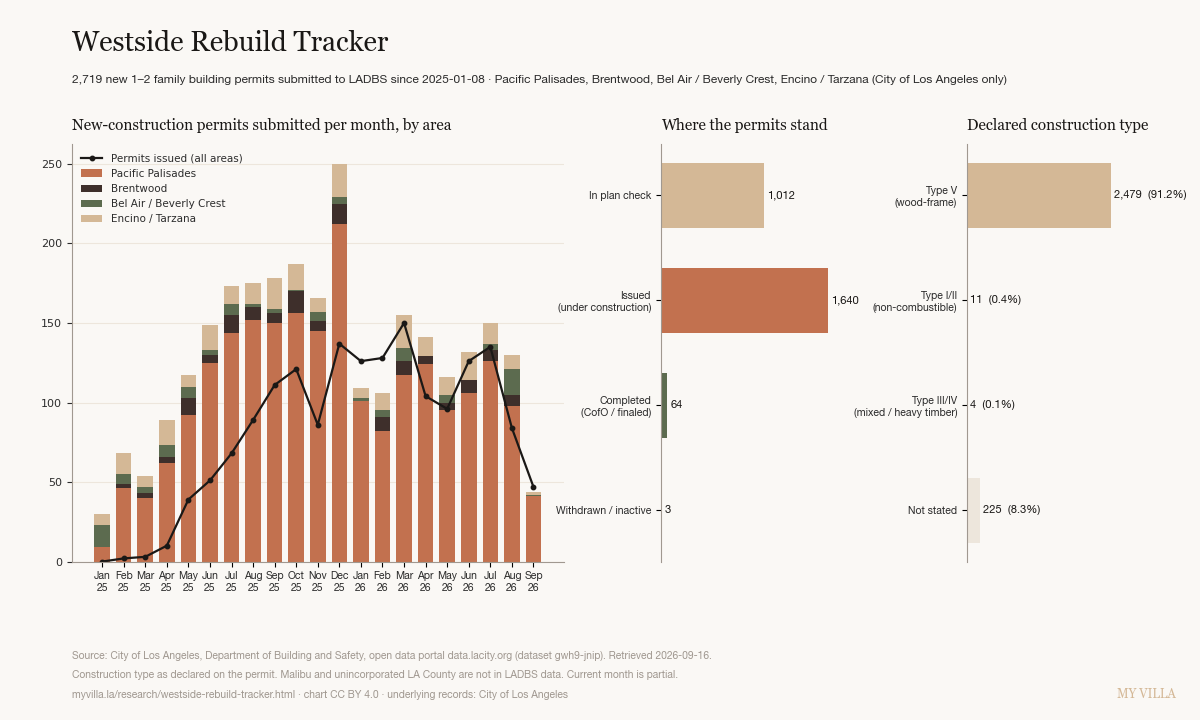
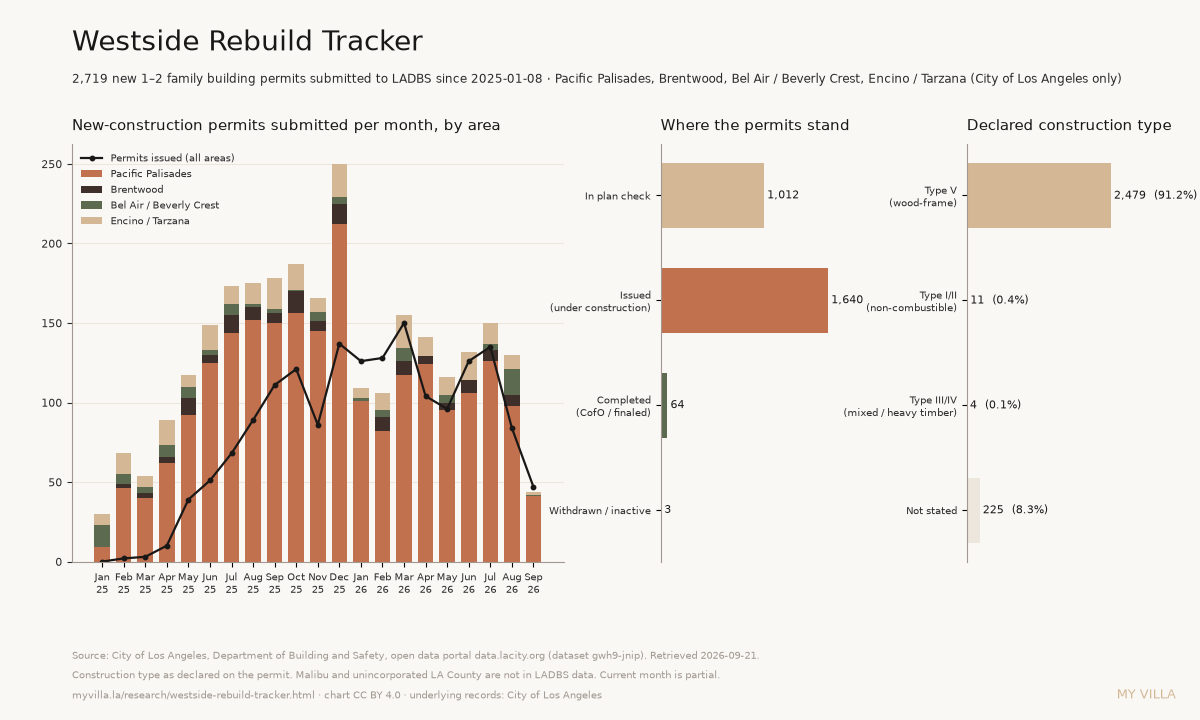
Rebuild tracker weekly refresh 2026-09-21 [skip ci]

diff --git a/research/westside-rebuild-tracker.html b/research/westside-rebuild-tracker.html
@@ -24,7 +24,7 @@
 
 <!-- Primary SEO -->
 <title>Westside Rebuild Tracker — LADBS Permits after the January 2025 Fires | My Villa Research</title>
-<meta name="description" content="Weekly tracker of 2,719 new-home building permits filed with LADBS in Pacific Palisades, Brentwood, Bel Air/Beverly Crest and Encino/Tarzana since the January 2025 fires: status, month, area and declared construction type (wood-frame vs non-combustible). Open data, CSV/JSON download. Updated 2026-09-16.">
+<meta name="description" content="Weekly tracker of 2,719 new-home building permits filed with LADBS in Pacific Palisades, Brentwood, Bel Air/Beverly Crest and Encino/Tarzana since the January 2025 fires: status, month, area and declared construction type (wood-frame vs non-combustible). Open data, CSV/JSON download. Updated 2026-09-21.">
 <meta name="keywords" content="Pacific Palisades rebuild tracker, Palisades rebuild permits, LADBS building permits 2025, wildfire rebuild Los Angeles data, Brentwood new construction permits, Bel Air building permits, Encino Tarzana hillside permits, Type V wood frame vs non-combustible, rebuild progress Pacific Palisades 2026">
 <meta name="author" content="My Villa Research">
 <meta name="robots" content="index, follow, max-image-preview:large">
@@ -34,7 +34,7 @@
 <meta property="og:type" content="article">
 <meta property="og:url" content="https://myvilla.la/research/westside-rebuild-tracker.html">
 <meta property="og:title" content="Westside Rebuild Tracker — LADBS permits since January 2025">
-<meta property="og:description" content="Weekly tracker of 2,719 new-home building permits filed with LADBS in Pacific Palisades, Brentwood, Bel Air/Beverly Crest and Encino/Tarzana since the January 2025 fires: status, month, area and declared construction type (wood-frame vs non-combustible). Open data, CSV/JSON download. Updated 2026-09-16.">
+<meta property="og:description" content="Weekly tracker of 2,719 new-home building permits filed with LADBS in Pacific Palisades, Brentwood, Bel Air/Beverly Crest and Encino/Tarzana since the January 2025 fires: status, month, area and declared construction type (wood-frame vs non-combustible). Open data, CSV/JSON download. Updated 2026-09-21.">
 <meta property="og:image" content="https://myvilla.la/research/img/westside-rebuild-tracker.png">
 <meta property="og:site_name" content="My Villa">
 <meta property="og:locale" content="en_US">
@@ -42,7 +42,7 @@
 <!-- Twitter Card -->
 <meta name="twitter:card" content="summary_large_image">
 <meta name="twitter:title" content="Westside Rebuild Tracker — LADBS permits since January 2025">
-<meta name="twitter:description" content="Weekly tracker of 2,719 new-home building permits filed with LADBS in Pacific Palisades, Brentwood, Bel Air/Beverly Crest and Encino/Tarzana since the January 2025 fires: status, month, area and declared construction type (wood-frame vs non-combustible). Open data, CSV/JSON download. Updated 2026-09-16.">
+<meta name="twitter:description" content="Weekly tracker of 2,719 new-home building permits filed with LADBS in Pacific Palisades, Brentwood, Bel Air/Beverly Crest and Encino/Tarzana since the January 2025 fires: status, month, area and declared construction type (wood-frame vs non-combustible). Open data, CSV/JSON download. Updated 2026-09-21.">
 <meta name="twitter:image" content="https://myvilla.la/research/img/westside-rebuild-tracker.png">
 
 <!-- Geo -->
@@ -69,7 +69,7 @@
       "@type": "Dataset",
       "@id": "https://myvilla.la/research/westside-rebuild-tracker.html#dataset",
       "name": "Westside Rebuild Tracker — LADBS new-construction permits since January 2025",
-      "description": "Weekly tracker of 2,719 new-home building permits filed with LADBS in Pacific Palisades, Brentwood, Bel Air/Beverly Crest and Encino/Tarzana since the January 2025 fires: status, month, area and declared construction type (wood-frame vs non-combustible). Open data, CSV/JSON download. Updated 2026-09-16.",
+      "description": "Weekly tracker of 2,719 new-home building permits filed with LADBS in Pacific Palisades, Brentwood, Bel Air/Beverly Crest and Encino/Tarzana since the January 2025 fires: status, month, area and declared construction type (wood-frame vs non-combustible). Open data, CSV/JSON download. Updated 2026-09-21.",
       "url": "https://myvilla.la/research/westside-rebuild-tracker.html",
       "keywords": [
         "Pacific Palisades rebuild",
@@ -105,12 +105,12 @@
           "name": "City of Los Angeles, Department of Building and Safety"
         }
       },
-      "temporalCoverage": "2025-01-08/2026-09-16",
+      "temporalCoverage": "2025-01-08/2026-09-21",
       "spatialCoverage": {
         "@type": "Place",
         "name": "Westside Los Angeles (Pacific Palisades, Brentwood, Bel Air / Beverly Crest, Encino / Tarzana), City of Los Angeles, California"
       },
-      "dateModified": "2026-09-16",
+      "dateModified": "2026-09-21",
       "variableMeasured": [
         "permits submitted per month",
         "permit status",
@@ -246,7 +246,7 @@ td.num, th.num { text-align: right; font-variant-numeric: tabular-nums; white-sp
   <div class="pillar-eyebrow">My Villa Research · Open Data</div>
   <h1 class="pillar-title">Westside Rebuild Tracker: <em>LADBS permits</em> since the January 2025 fires</h1>
   <p class="pillar-lede">Every new-home building permit filed with the Los Angeles Department of Building and Safety in Pacific Palisades, Brentwood, Bel Air / Beverly Crest and Encino / Tarzana since 2025-01-08, by month, status and declared construction type. Rebuilt every Monday from the City's open data.</p>
-  <div class="updated">Data retrieved 2026-09-16 · next refresh Monday 05:30 UTC</div>
+  <div class="updated">Data retrieved 2026-09-21 · next refresh Monday 05:30 UTC</div>
 </section>
 
 <div class="stat-strip">
@@ -261,7 +261,7 @@ td.num, th.num { text-align: right; font-variant-numeric: tabular-nums; white-sp
   <p class="container-lede">20 months after the Palisades Fire, the rebuild is visible one permit at a time. This page counts them, and shows what the permits themselves say about how the Westside is being rebuilt.</p>
 
   <div class="chart">
-    <img src="img/westside-rebuild-tracker.png" alt="Chart: new-construction permits submitted per month by area, permit status pipeline, and declared construction type — LADBS open data, retrieved 2026-09-16" width="1200" height="720" loading="eager">
+    <img src="img/westside-rebuild-tracker.png" alt="Chart: new-construction permits submitted per month by area, permit status pipeline, and declared construction type — LADBS open data, retrieved 2026-09-21" width="1200" height="720" loading="eager">
   </div>
 
   <h2>What the permits say</h2>
@@ -297,7 +297,7 @@ td.num, th.num { text-align: right; font-variant-numeric: tabular-nums; white-sp
   <p>Each weekly refresh adds a row, so the pipeline can be read over time.</p>
   <div class="table-wrap"><table>
     <thead><tr><th>Snapshot</th><th class="num">Permits</th><th class="num">In plan check</th><th class="num">Issued</th><th class="num">Completed</th><th class="num">Non-combustible</th></tr></thead>
-    <tbody><tr><td>2026-09-16</td><td class='num'>2,719</td><td class='num'>1,012</td><td class='num'>1,640</td><td class='num'>64</td><td class='num'>11</td></tr></tbody></table></div>
+    <tbody><tr><td>2026-09-16</td><td class='num'>2,719</td><td class='num'>1,012</td><td class='num'>1,640</td><td class='num'>64</td><td class='num'>11</td></tr><tr><td>2026-09-21</td><td class='num'>2,719</td><td class='num'>1,012</td><td class='num'>1,640</td><td class='num'>64</td><td class='num'>11</td></tr></tbody></table></div>
 
   <h2>Method</h2>
   <ul>
@@ -326,10 +326,10 @@ td.num, th.num { text-align: right; font-variant-numeric: tabular-nums; white-sp
   </div>
   <div class="cite-box">
     <h4>Cite (APA)</h4>
-    <p>My Villa. (2026). <em>Westside Rebuild Tracker: LADBS new-construction permits after the January 2025 fires</em> [Data set, retrieved 2026-09-16]. Los Angeles Open Data, City of Los Angeles Department of Building and Safety. https://myvilla.la/research/westside-rebuild-tracker.html</p>
+    <p>My Villa. (2026). <em>Westside Rebuild Tracker: LADBS new-construction permits after the January 2025 fires</em> [Data set, retrieved 2026-09-21]. Los Angeles Open Data, City of Los Angeles Department of Building and Safety. https://myvilla.la/research/westside-rebuild-tracker.html</p>
     <h4>Embed the chart</h4>
     <pre>&lt;a href=&quot;https://myvilla.la/research/westside-rebuild-tracker.html&quot;&gt;&lt;img src=&quot;https://myvilla.la/research/img/westside-rebuild-tracker.png&quot; alt=&quot;Westside Rebuild Tracker — LADBS new-home permits since January 2025 (My Villa)&quot; width=&quot;1200&quot; style=&quot;max-width:100%;height:auto&quot;&gt;&lt;/a&gt;
-&lt;p&gt;Source: &lt;a href=&quot;https://myvilla.la/research/westside-rebuild-tracker.html&quot;&gt;Westside Rebuild Tracker&lt;/a&gt; by My Villa, from City of Los Angeles / LADBS open data. Updated 2026-09-16.&lt;/p&gt;</pre>
+&lt;p&gt;Source: &lt;a href=&quot;https://myvilla.la/research/westside-rebuild-tracker.html&quot;&gt;Westside Rebuild Tracker&lt;/a&gt; by My Villa, from City of Los Angeles / LADBS open data. Updated 2026-09-21.&lt;/p&gt;</pre>
     <h4>License and attribution</h4>
     <p>The underlying permit records are public data of the City of Los Angeles, Department of Building and Safety, published on <a class="inline-link" href="https://data.lacity.org/terms-of-use" rel="noopener">data.lacity.org</a> and used under the portal's terms of use. Our aggregation, chart and page are released under <a class="inline-link" href="https://creativecommons.org/licenses/by/4.0/" rel="noopener">CC BY 4.0</a>: reuse freely with a link to this page.</p>
     <p class="muted">Provided "as is", without warranty of any kind. My Villa is not affiliated with the City of Los Angeles. Counts may change as LADBS updates its records; please cite the retrieval date.</p>
@@ -371,6 +371,30 @@ td.num, th.num { text-align: right; font-variant-numeric: tabular-nums; white-sp
 })();
 </script>
 <!-- CONV:MVTRACK:END -->
+<!-- CONV:READTRACK:START -->
+<script>
+(function () {
+  // Reading quality (no personal data): scroll depth 25/50/75/100% and visible-tab reading time 30/60/120/300 s, once per threshold
+  var PT = (document.body && document.body.getAttribute('data-page-type')) || 'page';
+  function send(ev, p) { p = p || {}; p.page_type = PT; if (window.__mvDebug) p.debug_mode = true; try { if (typeof gtag === 'function') gtag('event', ev, p); } catch (e) {} }
+  var marks = [25, 50, 75, 100], hit = {};
+  function depth() {
+    var doc = document.documentElement, h = Math.max(doc.scrollHeight, document.body ? document.body.scrollHeight : 0) - window.innerHeight;
+    if (h <= 0) return 100;
+    return Math.min(100, Math.round((window.scrollY || doc.scrollTop || 0) / h * 100));
+  }
+  function onScroll() { var d = depth(); for (var i = 0; i < marks.length; i++) { var m = marks[i]; if (!hit[m] && d >= m) { hit[m] = true; send('read_' + m, { percent: m }); } } }
+  window.addEventListener('scroll', onScroll, { passive: true });
+  setTimeout(onScroll, 1500);
+  var secs = 0, tmarks = [30, 60, 120, 300], thit = {};
+  setInterval(function () {
+    if (document.hidden) return;
+    secs += 5;
+    for (var i = 0; i < tmarks.length; i++) { var m = tmarks[i]; if (!thit[m] && secs >= m) { thit[m] = true; send('read_time_' + m + 's', { seconds: m }); } }
+  }, 5000);
+})();
+</script>
+<!-- CONV:READTRACK:END -->
 <!-- CONV:COOKIE_UI:START -->
 <style>
 #cookieBanner { position: fixed; bottom: 0; left: 0; right: 0; z-index: 9990; background: var(--offblack, #1a1816); border-top: 1px solid rgba(196,162,101,0.2); padding: 20px var(--side-pad, 24px); display: flex; align-items: center; justify-content: space-between; gap: 24px; flex-wrap: wrap; transform: translateY(100%); transition: transform 0.4s ease; }
@@ -427,29 +451,5 @@ body #cookieBanner.cookie-toast .cookie-btn { padding: 8px 14px; font-size: 11px
 })();
 </script>
 <!-- CONV:COOKIE_UI:END -->
-<!-- CONV:READTRACK:START -->
-<script>
-(function () {
-  // Reading quality (no personal data): scroll depth 25/50/75/100% and visible-tab reading time 30/60/120/300 s, once per threshold
-  var PT = (document.body && document.body.getAttribute('data-page-type')) || 'page';
-  function send(ev, p) { p = p || {}; p.page_type = PT; if (window.__mvDebug) p.debug_mode = true; try { if (typeof gtag === 'function') gtag('event', ev, p); } catch (e) {} }
-  var marks = [25, 50, 75, 100], hit = {};
-  function depth() {
-    var doc = document.documentElement, h = Math.max(doc.scrollHeight, document.body ? document.body.scrollHeight : 0) - window.innerHeight;
-    if (h <= 0) return 100;
-    return Math.min(100, Math.round((window.scrollY || doc.scrollTop || 0) / h * 100));
-  }
-  function onScroll() { var d = depth(); for (var i = 0; i < marks.length; i++) { var m = marks[i]; if (!hit[m] && d >= m) { hit[m] = true; send('read_' + m, { percent: m }); } } }
-  window.addEventListener('scroll', onScroll, { passive: true });
-  setTimeout(onScroll, 1500);
-  var secs = 0, tmarks = [30, 60, 120, 300], thit = {};
-  setInterval(function () {
-    if (document.hidden) return;
-    secs += 5;
-    for (var i = 0; i < tmarks.length; i++) { var m = tmarks[i]; if (!thit[m] && secs >= m) { thit[m] = true; send('read_time_' + m + 's', { seconds: m }); } }
-  }, 5000);
-})();
-</script>
-<!-- CONV:READTRACK:END -->
 </body>
 </html>
